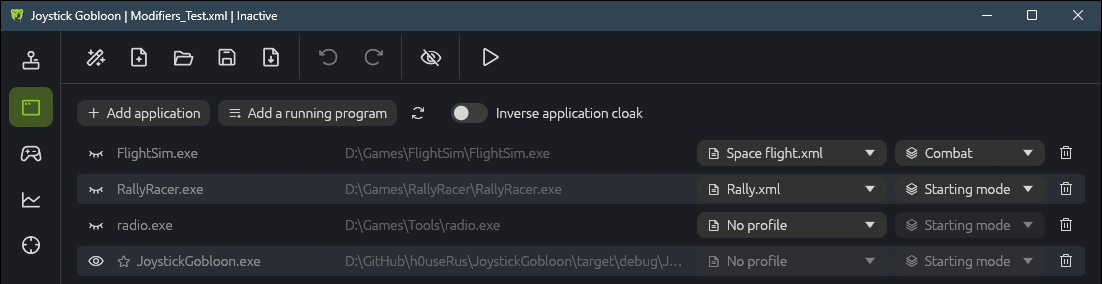
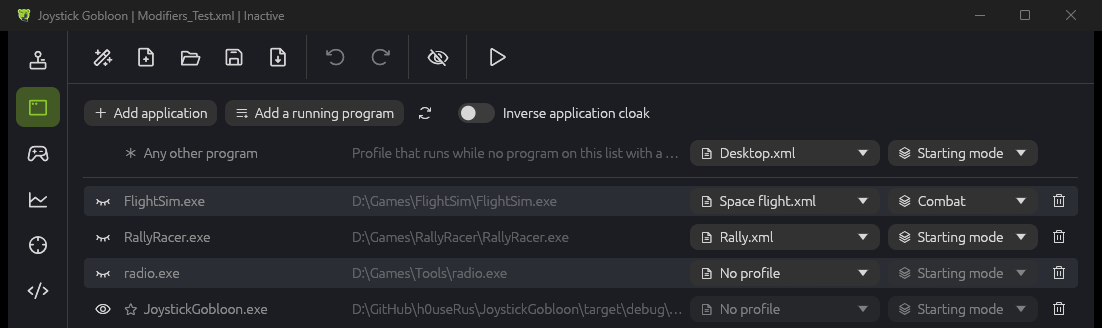
feat(joystick-gobloon): a default profile for any other program
The Applications page has an "Any other program" row at the top: its profile runs while the
program in front has no profile of its own (other programs, the desktop), like Joystick
Gremlin R16.1's default profile. Joystick Gobloon itself in front and unsaved changes keep
the running profile; without a profile there, switching works as before. The website
describes it, with a new screenshot of the page.

diff --git a/site/emulation.html b/site/emulation.html
@@ -353,8 +353,9 @@
               <li>Optionally pick the mode it starts in; <span class="term">Starting mode</span> keeps the profile's own.</li>
               <li>Activate any profile with the play button. From then on the game in front decides.</li>
             </ol>
-            <figure class="shot"><img src="img/apps-profiles.png" loading="lazy" width="1102" height="284" alt="Applications page: FlightSim.exe runs Space flight.xml in mode Combat, RallyRacer.exe runs Rally.xml in its starting mode, radio.exe has no profile, and Joystick Gobloon's own row cannot get one"></figure>
-            <p>Programs are matched by their file name, so every copy of a game counts, also a test build or a second install. A Windows game under Wine or Proton on Linux is known by its <code>.exe</code>, the same as on Windows. On Linux the program in front is read from X11 windows, which is where Wine and Proton games run, also on a Wayland desktop through XWayland; a native Wayland window in front counts as any other program and keeps the profile. Programs without a profile, like a radio tool listed only to see hidden devices, never change the profile. Joystick Gobloon never picks a profile for itself.</p>
+            <figure class="shot"><img src="img/apps-profiles.png" loading="lazy" width="1102" height="328" alt="Applications page: any other program runs Desktop.xml, FlightSim.exe runs Space flight.xml in mode Combat, RallyRacer.exe runs Rally.xml in its starting mode, radio.exe has no profile, and Joystick Gobloon's own row cannot get one"></figure>
+            <p>Programs are matched by their file name, so every copy of a game counts, also a test build or a second install. A Windows game under Wine or Proton on Linux is known by its <code>.exe</code>, the same as on Windows. On Linux the program in front is read from X11 windows, which is where Wine and Proton games run, also on a Wayland desktop through XWayland; a native Wayland window in front counts as any other program and keeps the profile. Programs without a profile, like a radio tool listed only to see hidden devices, count as any other program. Joystick Gobloon never picks a profile for itself.</p>
+            <p>The <span class="term">Any other program</span> row at the top sets a default profile: it runs whenever the program in front has no profile of its own, a browser, the desktop or a closed game's empty screen. Leave it on <span class="term">No profile</span> and anything else in front keeps the current profile.</p>
           </article>
 
           <article class="learn-action" id="per-program-switch">
@@ -363,8 +364,8 @@
               <li><i class="ph-bold ph-check" aria-hidden="true"></i><span>Only while a profile is active. A stopped profile never switches, and stopping it by hand turns switching off until the next activation. After a stop the profile starts in its own starting mode again, not in the mode a game picked.</span></li>
               <li><i class="ph-bold ph-check" aria-hidden="true"></i><span>A game with a profile comes to the front: within about a second its profile opens in the window and runs. The virtual joysticks and gamepads stay, so a running game does not lose them.</span></li>
               <li><i class="ph-bold ph-check" aria-hidden="true"></i><span>Several games with profiles are running: the one in front wins. Alt-tab to another of them and its profile runs.</span></li>
-              <li><i class="ph-bold ph-check" aria-hidden="true"></i><span>Anything else in front (the desktop, a browser, Joystick Gobloon itself) changes nothing, and neither does closing a game: the current profile keeps running.</span></li>
-              <li><i class="ph-bold ph-check" aria-hidden="true"></i><span>Back to the same game after alt-tab: its profile keeps running as it was, in the mode you switched to.</span></li>
+              <li><i class="ph-bold ph-check" aria-hidden="true"></i><span>Anything else in front (the desktop, a browser) runs the profile of <span class="term">Any other program</span>; without one it changes nothing, and neither does closing a game: the current profile keeps running. Joystick Gobloon itself in front never switches.</span></li>
+              <li><i class="ph-bold ph-check" aria-hidden="true"></i><span>Back to the same game after alt-tab: its profile keeps running as it was, in the mode you switched to. With a profile for any other program, the alt-tab ran that one, so the game's profile starts again in its starting mode.</span></li>
             </ul>
             <p>The status bar and the tray icon's tooltip say which program chose the profile, for example <em>FlightSim.exe in front: Space flight.xml runs</em>, and the Applications page highlights that program.</p>
           </article>

diff --git a/crates/joystick-gobloon/src/apps_view.rs b/crates/joystick-gobloon/src/apps_view.rs
@@ -17,6 +17,8 @@ use crate::style::{self, icon};
 const NAME_WIDTH: f32 = 220.0;
 const PROFILE_WIDTH: f32 = 190.0;
 const MODE_WIDTH: f32 = 150.0;
+/// Row index of the "any other program" entry in [`Edit`]s.
+const OTHER_ROW: usize = usize::MAX;
 
 pub struct AppsView {
     hh: Result<Arc<dyn Backend>, String>,
@@ -234,10 +236,6 @@ impl AppsView {
         }
         ui.add_space(6.0);
 
-        if self.list.apps.is_empty() {
-            crate::app::empty_state(ui, icon::APP_WINDOW, &i18n.tr("apps-empty"));
-            return;
-        }
         // Profiles to offer: the open one and the ones other programs use.
         let mut known: Vec<PathBuf> = current.map(Path::to_path_buf).into_iter().collect();
         for p in self.list.apps.iter().filter_map(|a| a.profile.clone()) {
@@ -252,10 +250,54 @@ impl AppsView {
                 self.modes_of(&profile);
             }
         }
+        // "Any other program" first: the profile for whatever the list does not name.
+        let other_index = self.list.apps.iter().position(AppEntry::is_other);
+        let other = other_index.map_or_else(AppEntry::other, |i| self.list.apps[i].clone());
+        if let Some(profile) = other.profile.clone() {
+            self.modes_of(&profile);
+        }
+        let other_modes = other
+            .profile
+            .as_ref()
+            .and_then(|p| self.modes.get(p))
+            .map_or(&[][..], Vec::as_slice);
+        let frame = egui::Frame::new()
+            .fill(if running == Some(other.key().as_str()) {
+                ui.visuals().selection.bg_fill.gamma_multiply(0.35)
+            } else {
+                egui::Color32::TRANSPARENT
+            })
+            .corner_radius(4)
+            .inner_margin(egui::Margin::symmetric(6, 2));
+        frame.show(ui, |ui| {
+            ui.horizontal(|ui| {
+                if hiding || hides_from_all {
+                    // Where the eye of the other rows is.
+                    ui.add_space(ui.spacing().interact_size.y + ui.spacing().item_spacing.x);
+                }
+                row(
+                    ui,
+                    OTHER_ROW,
+                    &other,
+                    false,
+                    &known,
+                    other_modes,
+                    i18n,
+                    &mut edit,
+                );
+            });
+        });
+        ui.separator();
+        if !self.list.apps.iter().any(|a| !a.is_other()) {
+            crate::app::empty_state(ui, icon::APP_WINDOW, &i18n.tr("apps-empty"));
+        }
         egui::ScrollArea::vertical()
             .auto_shrink(false)
             .show(ui, |ui| {
                 for (i, app) in self.list.apps.iter().enumerate() {
+                    if app.is_other() {
+                        continue;
+                    }
                     let is_running = running == Some(app.key().as_str());
                     let fill = if is_running {
                         ui.visuals().selection.bg_fill.gamma_multiply(0.35)
@@ -319,8 +361,12 @@ impl AppsView {
                 }
             }
             Some(Edit::Remove(path)) => self.remove(&path),
-            Some(Edit::Profile(i, profile)) => self.set_profile(i, profile),
+            Some(Edit::Profile(i, profile)) => {
+                let i = self.row_index(i);
+                self.set_profile(i, profile);
+            }
             Some(Edit::ChooseProfile(i)) => {
+                let i = self.row_index(i);
                 let mut dialog =
                     rfd::FileDialog::new().add_filter(i18n.tr("file-filter-gremlin"), &["xml"]);
                 if let Some(dir) = settings.profile_dir.as_ref().filter(|d| d.is_dir()) {
@@ -331,12 +377,26 @@ impl AppsView {
                 }
             }
             Some(Edit::Mode(i, mode)) => {
+                let i = self.row_index(i);
                 self.list.apps[i].mode = mode;
                 self.list.save();
             }
             None => {}
         }
         self.remove_dialog(ui.ctx(), i18n);
+    }
+
+    /// Index into the list of an [`Edit`]'s row; the "any other program" entry is added when
+    /// first changed.
+    fn row_index(&mut self, i: usize) -> usize {
+        if i != OTHER_ROW {
+            return i;
+        }
+        if let Some(i) = self.list.apps.iter().position(AppEntry::is_other) {
+            return i;
+        }
+        self.list.apps.push(AppEntry::other());
+        self.list.apps.len() - 1
     }
 
     fn set_profile(&mut self, i: usize, profile: Option<PathBuf>) {
@@ -431,13 +491,21 @@ fn row(
 ) {
     let path = &app.path;
     let h = ui.spacing().interact_size.y;
-    let exists = path.exists();
-    let full = path.display().to_string();
+    let other = app.is_other();
+    let exists = other || path.exists();
+    let full = if other {
+        i18n.tr("apps-other-tip")
+    } else {
+        path.display().to_string()
+    };
     let mut name = path
         .file_name()
         .map_or_else(|| full.clone(), |n| n.to_string_lossy().into_owned());
     if own {
         name = format!("{}  {name}", icon::STAR);
+    }
+    if other {
+        name = format!("{}  {}", icon::ASTERISK, i18n.tr("apps-other"));
     }
     let name = if exists {
         RichText::new(name)
@@ -472,7 +540,10 @@ fn row(
     let mode = app.mode.clone().unwrap_or_else(|| start.clone());
     // From the right: remove, mode, profile; the path gets what is left.
     ui.with_layout(Layout::right_to_left(Align::Center), |ui| {
-        if style::icon_button(ui, true, icon::TRASH, &i18n.tr("apps-remove")).clicked() {
+        if other {
+            // Where the remove button of the other rows is.
+            ui.add_space(h + ui.spacing().item_spacing.x);
+        } else if style::icon_button(ui, true, icon::TRASH, &i18n.tr("apps-remove")).clicked() {
             *edit = Some(Edit::Remove(path.to_path_buf()));
         }
         ui.add_enabled_ui(app.profile.is_some() && !modes.is_empty(), |ui| {
@@ -521,6 +592,8 @@ fn row(
                 });
             let tip = i18n.tr(if own {
                 "apps-own-no-profile"
+            } else if other {
+                "apps-other-tip"
             } else {
                 "apps-profile-tip"
             });

diff --git a/crates/joystick-gobloon/src/program_switch.rs b/crates/joystick-gobloon/src/program_switch.rs
@@ -76,18 +76,25 @@ impl Watcher {
     }
 }
 
-/// The program of the Applications page whose profile the program in front asks for.
-/// `own`: Joystick Gobloon's file name, which never gets a profile.
+/// The program of the Applications page whose profile the program in front asks for; for any
+/// other program (or the desktop) the "any other program" entry when it has a profile.
+/// `own`: Joystick Gobloon's file name, which never gets a profile and keeps the running one.
 pub fn choose<'a>(
     front: Option<&Program>,
     apps: &'a [AppEntry],
     own: &str,
 ) -> Option<&'a AppEntry> {
-    let key = program_key(&front?.name);
+    let other = || apps.iter().find(|a| a.is_other() && a.profile.is_some());
+    let Some(front) = front else {
+        return other();
+    };
+    let key = program_key(&front.name);
     if key == program_key(own) {
         return None;
     }
-    apps.iter().find(|a| a.profile.is_some() && a.key() == key)
+    apps.iter()
+        .find(|a| !a.is_other() && a.profile.is_some() && a.key() == key)
+        .or_else(other)
 }
 
 /// Remembers which program chose the running profile, so it is applied once: coming back to
@@ -277,6 +284,45 @@ mod tests {
             "never itself"
         );
         assert!(choose(None, &apps, OWN).is_none(), "nothing in front");
+    }
+
+    #[test]
+    fn any_other_program_gets_the_default_profile() {
+        let mut apps = apps();
+        let mut other = AppEntry::other();
+        other.profile = Some(PathBuf::from("default.xml"));
+        apps.push(other);
+        let chosen = |name: Option<&str>| {
+            let front = name.map(program);
+            choose(front.as_ref(), &apps, OWN).and_then(|a| a.profile.clone())
+        };
+        assert_eq!(chosen(Some("One.exe")), Some(PathBuf::from("one.xml")));
+        assert_eq!(
+            chosen(Some("browser.exe")),
+            Some(PathBuf::from("default.xml"))
+        );
+        assert_eq!(
+            chosen(Some("radio.exe")),
+            Some(PathBuf::from("default.xml")),
+            "no profile"
+        );
+        assert_eq!(
+            chosen(None),
+            Some(PathBuf::from("default.xml")),
+            "the desktop"
+        );
+        assert_eq!(chosen(Some(OWN)), None, "itself keeps the running profile");
+        // Back from another program the game's profile runs again, and the other way round.
+        let mut switcher = Switcher::default();
+        let (one, browser) = (program("One.exe"), program("browser.exe"));
+        assert!(switcher.check(Some(&one), &apps, OWN).is_some());
+        assert!(switcher.check(Some(&browser), &apps, OWN).is_some());
+        assert!(
+            switcher
+                .check(Some(&program("mail.exe")), &apps, OWN)
+                .is_none()
+        );
+        assert!(switcher.check(Some(&one), &apps, OWN).is_some());
     }
 
     #[test]

diff --git a/crates/joystick-gobloon/src/settings.rs b/crates/joystick-gobloon/src/settings.rs
@@ -131,6 +131,16 @@ impl AppEntry {
         }
     }
 
+    /// The "any other program" entry: its profile runs while no program of the page with a
+    /// profile is in front.
+    pub fn other() -> Self {
+        Self::new(PathBuf::from(OTHER_PROGRAMS))
+    }
+
+    pub fn is_other(&self) -> bool {
+        self.path.as_os_str() == OTHER_PROGRAMS
+    }
+
     /// What programs are matched by: the file name without case, so every copy of a game
     /// (other install folders, test builds) counts.
     pub fn key(&self) -> String {
@@ -139,6 +149,9 @@ impl AppEntry {
         program_key(path.rsplit(['\\', '/']).next().unwrap_or(&path))
     }
 }
+
+/// Path of the [`AppEntry::other`] entry in `apps.gob`.
+pub const OTHER_PROGRAMS: &str = "*";
 
 /// [`AppEntry::key`] of a program's file name.
 pub fn program_key(name: &str) -> String {

diff --git a/crates/joystick-gobloon/src/app.rs b/crates/joystick-gobloon/src/app.rs
@@ -583,11 +583,11 @@ impl JoystickGobloonApp {
         let Some(path) = app.profile.clone() else {
             return;
         };
+        // Nothing readable in front (the desktop): the "any other program" entry chose.
         let program = self
             .front
             .as_ref()
-            .map(|p| p.name.clone())
-            .unwrap_or_default();
+            .map_or_else(|| self.i18n.tr("apps-other"), |p| p.name.clone());
         let file = path.file_name().map_or_else(
             || path.display().to_string(),
             |n| n.to_string_lossy().into_owned(),
